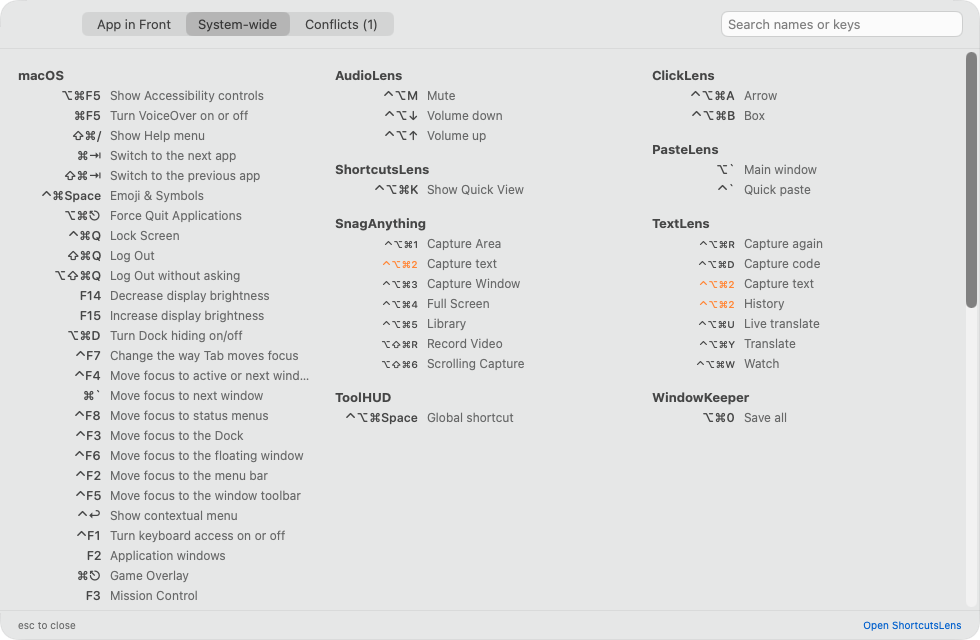
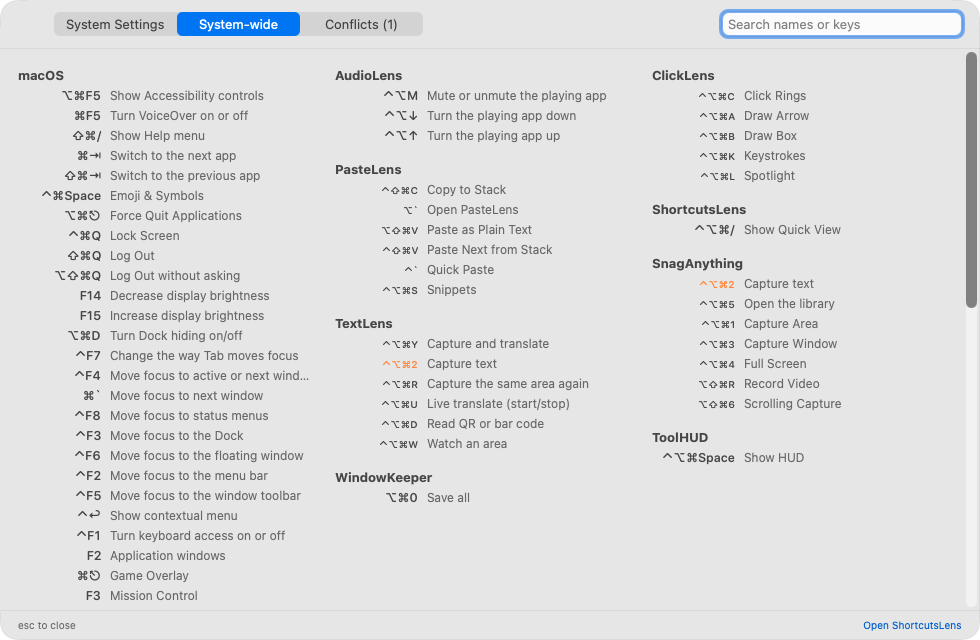
Quick View defaults to ⌃⌥⌘/; reports can say how keys are used
ClickLens's Keystrokes uses ⌃⌥⌘K, 1.0.0's default, so the default moves to the
free ⌃⌥⌘/ (a saved ⌃⌥⌘K from 1.0.0 follows it once). Reports gain an optional
gesture (hold, doubleTap, toggle): an app's own shortcuts on the same keys with
different gestures, like holding vs double-tapping Right ⌥, no longer count as
a conflict.

diff --git a/Sources/ShortcutsLensKit/ShortcutEntry.swift b/Sources/ShortcutsLensKit/ShortcutEntry.swift
@@ -55,9 +55,13 @@ public struct ShortcutEntry: Identifiable, Hashable, Sendable {
     public var detail: String?
     /// Where an `.appMenus` entry sits ("File › Export").
     public var menuPath: String?
+    /// How the keys are used, when an app's report says: "hold", "doubleTap" or "toggle".
+    /// nil is an ordinary press.
+    public var gesture: String?
 
     public init(id: String, ownerID: String, ownerName: String, title: String, category: String? = nil,
-                combo: KeyCombo, enabled: Bool = true, source: ShortcutSource, detail: String? = nil, menuPath: String? = nil) {
+                combo: KeyCombo, enabled: Bool = true, source: ShortcutSource, detail: String? = nil, menuPath: String? = nil,
+                gesture: String? = nil) {
         self.id = id
         self.ownerID = ownerID
         self.ownerName = ownerName
@@ -68,6 +72,18 @@ public struct ShortcutEntry: Identifiable, Hashable, Sendable {
         self.source = source
         self.detail = detail
         self.menuPath = menuPath
+        self.gesture = gesture
+    }
+
+    /// "Hold", "Double-tap", "Press to start and stop", or nil for a press.
+    public var gestureTitle: String? {
+        switch gesture {
+        case nil: nil
+        case "hold": "Hold"
+        case "doubleTap": "Double-tap"
+        case "toggle": "Press to start and stop"
+        case let other?: other
+        }
     }
 
     public static let macOSOwner = "com.apple.macOS"
@@ -105,23 +121,35 @@ public struct ShortcutEntry: Identifiable, Hashable, Sendable {
 /// Shortcuts that share keys.
 public enum Conflicts {
     /// Every key combination that two or more enabled, system-wide shortcuts claim. Within
-    /// one app it takes two exact entries (macOS's own, or an app's report): a settings file
-    /// often stores one shortcut in two places, under two names.
+    /// one app it takes two exact entries (macOS's own, or an app's report) used the same way:
+    /// a settings file often stores one shortcut in two places, under two names, and an app
+    /// that tells holding a key from double-tapping it keeps the two apart itself.
     public static func find(in entries: [ShortcutEntry]) -> [KeyCombo: [ShortcutEntry]] {
         var byCombo: [KeyCombo: [ShortcutEntry]] = [:]
         for entry in entries where entry.enabled && entry.isGlobal {
             byCombo[entry.combo, default: []].append(entry)
         }
-        return byCombo.filter { _, list in
-            if Set(list.map(\.ownerID)).count > 1 { return true }
-            let exact = list.filter { $0.source != .appSettings }
-            return Set(exact.map { $0.title.lowercased() }).count > 1
+        var found: [KeyCombo: [ShortcutEntry]] = [:]
+        for (combo, list) in byCombo {
+            // Entries that collide with at least one other on this combo.
+            let clashing = list.filter { entry in list.contains { collide(entry, $0) } }
+            if !clashing.isEmpty { found[combo] = clashing }
         }
+        return found
     }
 
     /// The other entries a shortcut collides with.
     public static func partners(of entry: ShortcutEntry, in conflicts: [KeyCombo: [ShortcutEntry]]) -> [ShortcutEntry] {
         guard entry.enabled, entry.isGlobal else { return [] }
-        return (conflicts[entry.combo] ?? []).filter { $0.id != entry.id }
+        return (conflicts[entry.combo] ?? []).filter { collide(entry, $0) }
+    }
+
+    /// Two entries on the same combo. Different apps always collide, since both hear the
+    /// keys. Within one app, only two different exact shortcuts used the same way do.
+    static func collide(_ a: ShortcutEntry, _ b: ShortcutEntry) -> Bool {
+        guard a.id != b.id else { return false }
+        if a.ownerID != b.ownerID { return true }
+        return a.source != .appSettings && b.source != .appSettings && a.gesture == b.gesture
+            && a.title.lowercased() != b.title.lowercased()
     }
 }

diff --git a/Tests/ShortcutsLensKitTests/ShortcutsLensKitTests.swift b/Tests/ShortcutsLensKitTests/ShortcutsLensKitTests.swift
@@ -208,6 +208,29 @@ import Testing
         #expect(Conflicts.find(in: [entry("app.one", "A", combo, source: .appReport), entry("app.one", "B", combo, source: .appReport)]).count == 1)
     }
 
+    @Test func holdAndDoubleTapOfOneKeyInOneAppDontConflict() {
+        let option = KeyCombo(keyCode: nil, modifiers: [.option])
+        let info: [AnyHashable: Any] = ["app": "Dictate", "shortcuts": [
+            ["id": "dictation", "title": "Dictation", "carbonModifiers": 0x800, "gesture": "hold"],
+            ["id": "handsFree", "title": "Hands-free", "carbonModifiers": 0x800, "gesture": "doubleTap"],
+            ["id": "other", "title": "Other", "carbonModifiers": 0x800, "gesture": "press"],
+        ]]
+        let reported = ShortcutReports.entries(sender: "app.dictate", userInfo: info) ?? []
+        #expect(reported.map(\.gesture) == ["hold", "doubleTap", nil])
+        #expect(reported.allSatisfy { $0.combo == option })
+        // Hold, double-tap and a press: three different ways to use ⌥, none colliding.
+        #expect(Conflicts.find(in: reported).isEmpty)
+        // Two actions on the same gesture still collide.
+        var twin = reported[0]
+        twin.id = "twin"; twin.title = "Assistant"
+        #expect(Conflicts.find(in: reported + [twin])[option]?.map(\.id) == [reported[0].id, "twin"])
+        // Another app on the same keys collides with all of them.
+        let other = entry("app.two", "Launcher", option, source: .appReport)
+        let conflicts = Conflicts.find(in: reported + [other])
+        #expect(conflicts[option]?.count == 4)
+        #expect(Conflicts.partners(of: reported[0], in: conflicts).map(\.ownerID) == ["app.two"])
+    }
+
     @Test func launcherButtonsAreNotHotKeys() {
         let found = PrefsScanner.scan([
             "hotKey": Data(#"{"keyCode":49,"modifiers":11,"key":"Space"}"#.utf8),

diff --git a/Sources/ShortcutsLens/Model/Preferences.swift b/Sources/ShortcutsLens/Model/Preferences.swift
@@ -24,8 +24,10 @@ final class Preferences {
     static let keys = [Keys.quickViewHotKey, Keys.holdCommand, Keys.quickViewStartsOn, Keys.showDisabled, Keys.scanSandboxed,
                        Keys.hiddenEntries, Keys.hiddenApps, Keys.confirmQuit]
 
-    /// ⌃⌥⌘K: "keys". Three modifiers keep it out of the way of app menus.
-    static let defaultHotKey = KeyCombo(keyCode: 40, modifiers: [.control, .option, .command])
+    /// ⌃⌥⌘/, the ? key. Three modifiers keep it out of the way of app menus.
+    static let defaultHotKey = KeyCombo(keyCode: 44, modifiers: [.control, .option, .command])
+    /// 1.0.0's default, which ClickLens also uses.
+    private static let oldDefaultHotKey = KeyCombo(keyCode: 40, modifiers: [.control, .option, .command])
 
     enum StartPage: String, CaseIterable, Identifiable {
         case frontmostApp, systemWide
@@ -54,6 +56,11 @@ final class Preferences {
         let d = UserDefaults.standard
         d.register(defaults: [Keys.holdCommand: false, Keys.showDisabled: true, Keys.scanSandboxed: false, Keys.confirmQuit: true,
                               Keys.quickViewStartsOn: StartPage.frontmostApp.rawValue])
+        // A saved copy of 1.0.0's default follows the default to its new keys, once.
+        if !d.bool(forKey: "movedOldDefaultHotKey") {
+            d.set(true, forKey: "movedOldDefaultHotKey")
+            if Self.decode(d.string(forKey: Keys.quickViewHotKey)) == Self.oldDefaultHotKey { d.removeObject(forKey: Keys.quickViewHotKey) }
+        }
         quickViewHotKey = Self.storedHotKey()
         holdCommand = d.bool(forKey: Keys.holdCommand)
         quickViewStartsOn = StartPage(rawValue: d.string(forKey: Keys.quickViewStartsOn) ?? "") ?? .frontmostApp

diff --git a/Sources/ShortcutsLensKit/Reports.swift b/Sources/ShortcutsLensKit/Reports.swift
@@ -21,10 +21,13 @@ public enum ShortcutReports {
             let modifiers = (item["carbonModifiers"] as? Int).map(Modifiers.init(carbon:))
                 ?? (item["cocoaModifiers"] as? Int).map(Modifiers.init(cocoa:)) ?? []
             guard keyCode != nil || !modifiers.isEmpty else { return nil }
+            // "press" (or nothing) is the ordinary case.
+            let gesture = (item["gesture"] as? String).flatMap { $0.isEmpty || $0 == "press" ? nil : $0 }
             return ShortcutEntry(id: "report|\(sender)|\(id)", ownerID: sender, ownerName: appName, title: title,
                                  category: item["category"] as? String, combo: KeyCombo(keyCode: keyCode, modifiers: modifiers),
                                  enabled: item["enabled"] as? Bool ?? true, source: .appReport,
-                                 detail: "\(appName) reported this shortcut itself. Change it in \(appName)'s settings.")
+                                 detail: "\(appName) reported this shortcut itself. Change it in \(appName)'s settings.",
+                                 gesture: gesture)
         }
     }
 }

diff --git a/Shared/ShortcutsLensReport.swift b/Shared/ShortcutsLensReport.swift
@@ -28,11 +28,16 @@ enum ShortcutsLensReport {
         var enabled = true
         /// An optional heading ("Capture", "Windows").
         var category: String? = nil
+        /// How the keys are used, when it isn't an ordinary press: "hold", "doubleTap" or
+        /// "toggle". Two of the app's own shortcuts on the same keys with different gestures
+        /// aren't counted as a conflict.
+        var gesture: String? = nil
 
         var plist: [String: Any] {
             var d: [String: Any] = ["id": id, "title": title, "carbonModifiers": carbonModifiers, "enabled": enabled]
             if let keyCode { d["keyCode"] = keyCode }
             if let category { d["category"] = category }
+            if let gesture { d["gesture"] = gesture }
             return d
         }
     }

diff --git a/Sources/ShortcutsLens/UI/SettingsWindow.swift b/Sources/ShortcutsLens/UI/SettingsWindow.swift
@@ -201,7 +201,7 @@ struct GeneralSettings: View {
         .confirmationDialog("Reset ShortcutsLens settings?", isPresented: $confirmReset) {
             Button("Reset", role: .destructive) { prefs.resetToDefaults(); ShortcutStore.shared.rebuild() }
         } message: {
-            Text("The Quick View shortcut goes back to ⌃⌥⌘K, hidden shortcuts and apps come back, and the options go back to how ShortcutsLens started. Where it appears, login, sync and updates stay as they are.")
+            Text("The Quick View shortcut goes back to \(Preferences.defaultHotKey.display), hidden shortcuts and apps come back, and the options go back to how ShortcutsLens started. Where it appears, login, sync and updates stay as they are.")
         }
     }
 }

diff --git a/Sources/ShortcutsLens/UI/Components.swift b/Sources/ShortcutsLens/UI/Components.swift
@@ -71,6 +71,7 @@ struct ShortcutRow: View {
     private var subtitle: String? {
         var parts: [String] = []
         if showOwner { parts.append(entry.ownerName) }
+        if let gesture = entry.gestureTitle, entry.title.range(of: gesture, options: .caseInsensitive) == nil { parts.append(gesture) }
         if let category = entry.category, category != entry.ownerName, entry.source != .appMenus { parts.append(category) }
         if let path = entry.menuPath, entry.source == .appMenus { parts.append(path) }
         return parts.isEmpty ? nil : parts.joined(separator: " · ")

diff --git a/README.md b/README.md
@@ -23,7 +23,7 @@ Requires macOS 26 or later. ShortcutsLens is in beta.
 - **Keyboard Map.** Your keyboard for any mix of modifiers: taken keys lit, conflicts in orange, free keys plain. Click a key to see everything on it.
 - **Find a Free Shortcut.** Press a shortcut you have in mind to see whether anything uses it, or pick from free ones in the modifier sets least likely to clash with app menus. Click to copy.
 - **The app in front.** With Accessibility, the menu shortcuts of the app you were using, with where each sits in its menus.
-- **Quick View.** ⌃⌥⌘K (change it in Settings) floats a cheat sheet over any app: its menu shortcuts, every system-wide shortcut and the conflicts, searchable. Optionally hold ⌘ for a second to peek at it.
+- **Quick View.** ⌃⌥⌘/ (change it in Settings) floats a cheat sheet over any app: its menu shortcuts, every system-wide shortcut and the conflicts, searchable. Optionally hold ⌘ for a second to peek at it.
 - **Search by name or keys.** Type ⌘⇧4 or ⇧⌘4, either finds it.
 - **Hide what you don't need.** Right-click a shortcut or an app to hide it; Settings › Sources brings them back.
 - **Dock, menu bar, both or neither,** with ToolHUD menu support, light and dark appearance, and iCloud settings sync.
